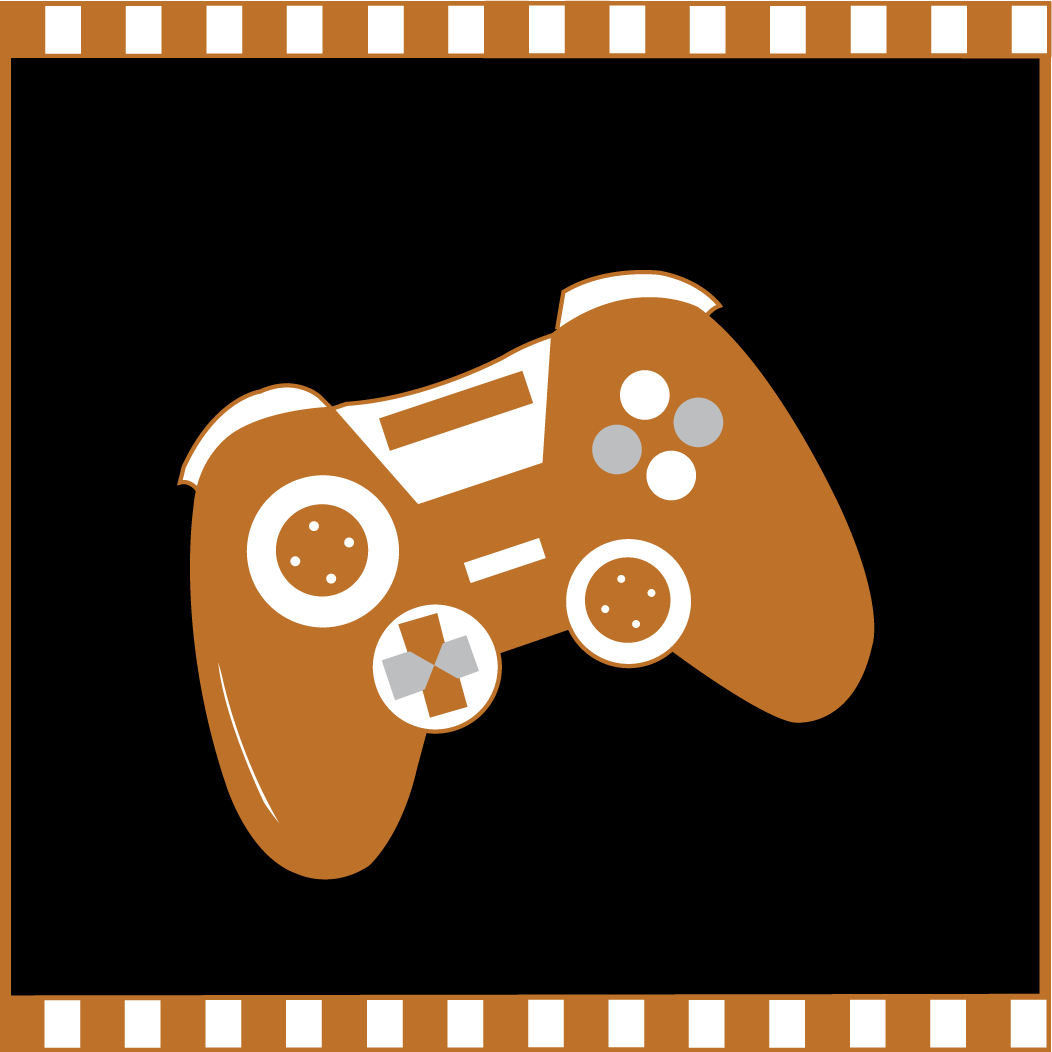
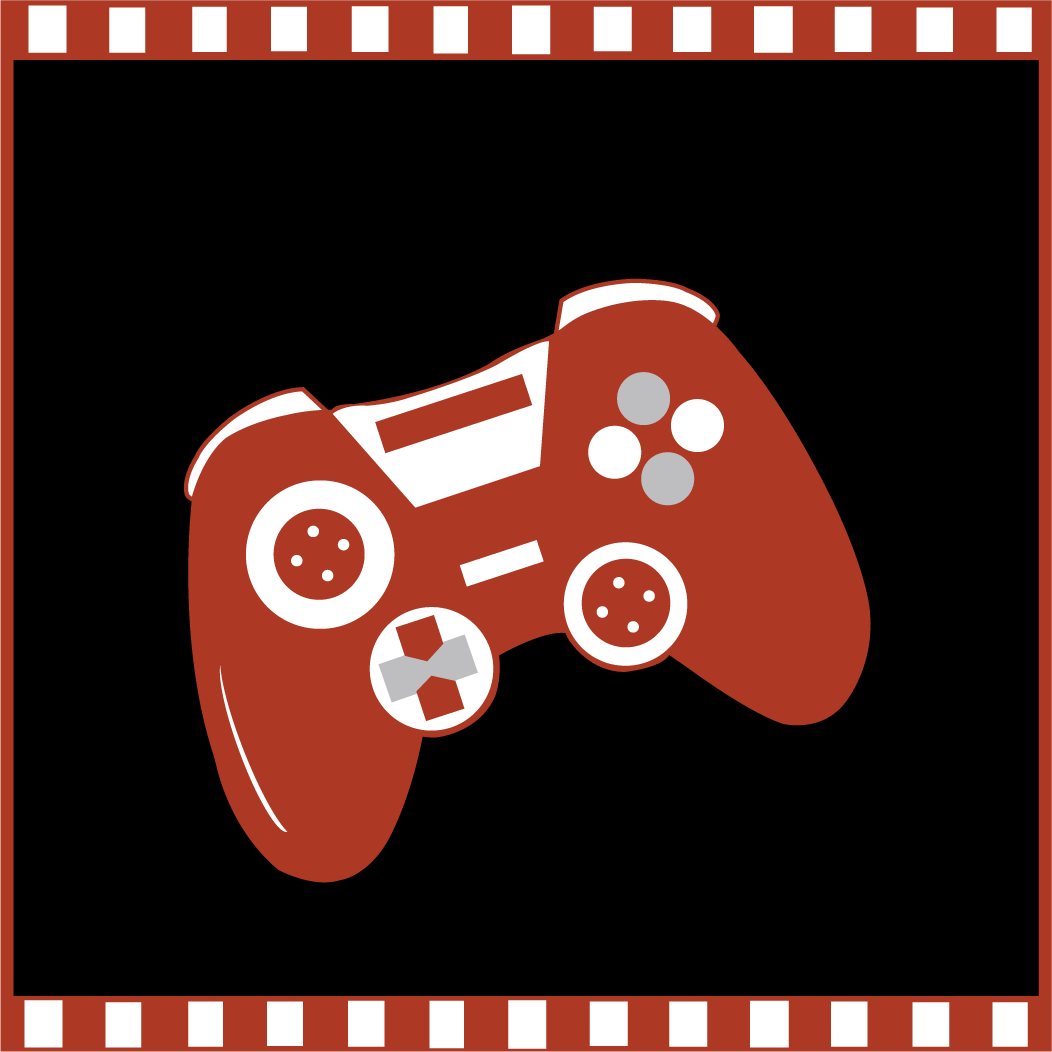
final

diff --git a/css/comicStyle.css b/css/comicStyle.css
@@ -33,12 +33,12 @@ body{
 }
 
 ::-webkit-scrollbar-thumb{
-	background: #96550f;
+	background: #ad371b;
 }
 
 #navBar{
 	margin-left: 10px;
-	background-color: #bd701e;
+	background-color: #ad371b;
 	width: 118%;
 	height: 80px;
 	margin-top: -11px;
@@ -47,21 +47,21 @@ body{
 
 #logo{
 	padding-top: 4px;
-	padding-left: 40px;
+	padding-left: 20px;
 	margin-left: 50px;
 	width: 20%;
 }
 
 #CHTop{
 	margin-top: -50px;
-	margin-left: 175px;
+	margin-left: 145px;
 	color: white;
 	font-family: headkick;
 }
 
 #CHTopT{
 	margin-top: -20px;
-	margin-left: 175px;
+	margin-left: 145px;
 	color: white;
 	font-family: headkick;
 }
@@ -97,7 +97,8 @@ body{
 }
 
 #navList a:hover{
-	color: #ad371b;
+	color: #fcae1e;
+	font-size: 20px;
 }
 
 #navList a:active{
@@ -273,6 +274,10 @@ body{
 	width: 3%;
 }
 
+#vi{
+	width: 100%;
+}
+
 .abt{
 	margin-top: -9px;
 	width: 100%;
@@ -319,7 +324,7 @@ body{
 	margin-left: 10%;
 	height: 320px;
 	width: 40%;
-	border: solid #bd701e 1pt;
+	border: none;
 }
 
 #text3{
@@ -389,7 +394,7 @@ body{
 }
 
 #b1:hover{
-	color: #ad371b;
+	color: white;
 	font-size: 40px;
 	text-shadow: 1.5px 1.5px 1.5px black;
 	z-index: 1;
@@ -430,7 +435,7 @@ body{
 }
 
 #b2:hover{
-	color: #ad371b;
+	color: white;
 	font-size: 40px;
 	text-shadow: 1.5px 1.5px 1.5px black;
 	z-index: 1;
@@ -467,7 +472,7 @@ body{
 }
 
 #b3:hover{
-	color: #ad371b;
+	color: white;
 	font-size: 40px;
 	text-shadow: 1.5px 1.5px 1.5px black;
 	z-index: 1;
@@ -527,12 +532,13 @@ body{
 }
 
 #navListB a.active{
-	color: goldenrod;
+	color: #ad371b;
 	font-size: 12px;
 }
 
 #navListB a:hover{
-	color: black;
+	color: #ed8322;
+	font-size: 14px;
 }
 
 #navListB a:active{

diff --git a/css/mainstyle.css b/css/mainstyle.css
@@ -30,11 +30,11 @@ body{
 }
 
 ::-webkit-scrollbar-thumb{
-	background: #821a01;
+	background: #ed8322;
 }
 
 #navBar{
-	background-color: #ad371b;
+	background-color: #ed8322;
 	width: 110%;
 	height: 80px;
 	margin: -11px;
@@ -82,22 +82,24 @@ body{
 }
 
 #navList a.active{
-	color: goldenrod;
+	color: #ed8322;
 	font-size: 20px;
+	text-decoration: bold;
 }
 
 #navList a:hover{
 	color: black;
+	font-size: 20px;
 }
 
 #navList a:active{
-	color: darkred;
+	color: #ad371b;
 }
 
 
 #statement{
 	margin: 0 auto;
-	margin-top: 11.2px;
+	margin-top: 11px;
 	margin-left: -5%;
 	width: 110%;
 	height: 800px;
@@ -114,8 +116,8 @@ body{
 	padding-top: 20px;
 }
 
-#stateImg{
-	background-image: url(backdrop.png); 
+#stateImg{ 
+	background-image: url(backdrop.png);
 	height: 750px; 
 	width: 100%; 
 	z-index: 10; 
@@ -167,11 +169,11 @@ body{
 	width: 30%;
 	font-family: mad;
 	font-size: 25px;
-	background-color: #ad371b;
+	background-color: #ed8322;
 }
 
 #button1:hover{
-	background-color: #353935;
+	background-color: #ad371b;
 	color: white;
 }
 
@@ -221,7 +223,7 @@ body{
 	width: 30%;
 	font-family: mad;
 	font-size: 25px;
-	background-color: #ad371b;
+	background-color: #ed8322;
 }
 
 #button2:hover{
@@ -240,7 +242,7 @@ body{
 
 #logo2{
 	padding-top: 4px;
-	margin-left: 5px;
+	margin-left: 25px;
 	padding-left: 10px;
 	width: 8%;
 }
@@ -282,12 +284,14 @@ body{
 }
 
 #navListB a.active{
-	color: goldenrod;
+	color: #ad371b;
 	font-size: 12px;
+	font-weight: 2pt;
 }
 
 #navListB a:hover{
-	color: black;
+	color: goldenrod;
+	font-size: 14px;
 }
 
 #navListB a:active{

diff --git a/author.html b/author.html
@@ -22,7 +22,8 @@
 	</div>
 	<div id="main">
 		<div id="statement">
-			<img src="media/auth.png" style="height: 550px;">
+			<img src="media/authorPage.gif" style="height: 550px;">
+			<img src="media/animated.gif" style="height: 550px; position: absolute; top: 100px; left: 450px;" />
 		</div>
 		<div id="showcase">
 			<div id="text">
@@ -54,6 +55,7 @@
 			</div>
 			<div id="aboutImage">
 				<img src="media/PatThings.png" id="abt"/>
+				<img src="media/auth3.png" style="height: 60%; position: absolute; top: 1480px; left: 80px;">
 			</div>
 		</div>
 	</div>

diff --git a/index.html b/index.html
@@ -14,7 +14,7 @@
 		</div>
 		<div id="nav">
 			<div id="navList">
-				<a class="active" href="#home" name="top">Home</a>
+				<a class="active" href="#home" name="top" style="color: black;">Home</a>
 				<a href="comic.html">Comic</a>
 				<a href="author.html">Author</a>
 			</div>
@@ -68,7 +68,7 @@
 		</div>
 		<div id="navB">
 			<div id="navListB">
-				<a class="active" href="#home">Home</a>
+				<a class="active" href="#home" style="color: #ed8322">Home</a>
 				<a href="comic.html">Comic</a>
 				<a href="author.html">Author</a>
 			</div>

diff --git a/comic.html b/comic.html
@@ -63,7 +63,7 @@
 				<h1>Every story needs conflict</h1>
 			</div>
 			<div id="comic2">
-
+				<img id="vi" src="media/viola.gif"/>
 			</div>
 			<div id="aboutComic">
 				<p class="synopsis">Without conflict, the world would be quite boring. So naturally Nate and Jamie must defend themselves against Viola. But of course, no artist is exempt. During the creation of the last panels, the author's stylus gave the ghost and they had a challenge of their own to overcome.</p>

diff --git a/css/author.css b/css/author.css
@@ -300,7 +300,8 @@ ul{
 }
 
 #navListB a:hover{
-	color: black;
+	color: #ad371b;
+	font-size: 14px;
 }
 
 #navListB a:active{
